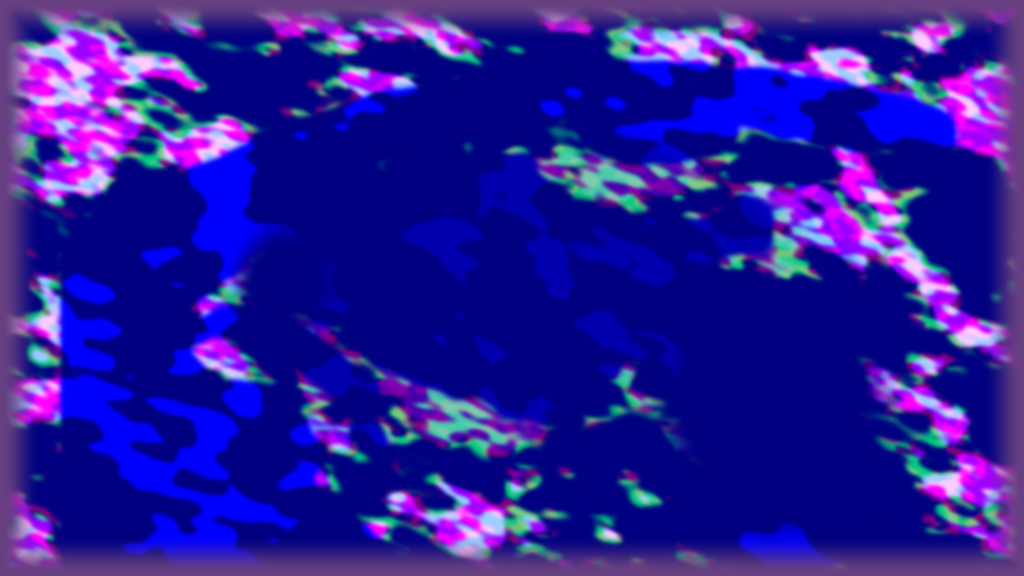
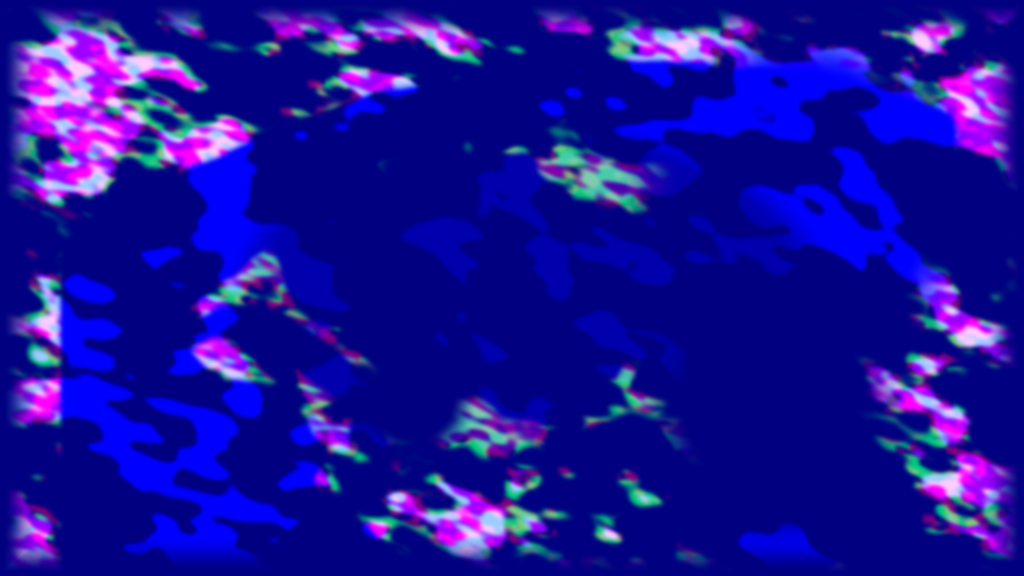
The far low as a comma, in open sea south of the ribs, well clear of the skull; the map's border and the sun's glare left clear

diff --git a/src/places/reveal/shared/weather.ts b/src/places/reveal/shared/weather.ts
@@ -16,13 +16,13 @@ export const FOG_KM = 0.7;
 /** Km a second: staged far faster than weather, so the held frame is seen to live. */
 export const LOW_DRIFT: [number, number] = [5.4, 1.5];
 /** The small low far off toward the planet's edge, px of the master: the wind winds round it as round the cyclone, a quarter as wide. */
-export const LOW2 = { x: 400, y: 1560 };
+export const LOW2 = { x: 1750, y: 2800 };
 // How many storms the sea holds: 1 the cyclone alone, 2 with the far low. (The same number is given to
 // assets-src/reveal/sky/make_weather.py as STORMS, which clears the sea round each.)
 export const STORMS = 2;
 // The other storms, each drawn by the cyclone's sheet (sky/index.ts): where (px of the master), the half width of its sheet (the
 // cyclone's is 1250), how it is turned, where in the photographs its arms are taken from, and how much thinner it stands.
-export const OTHER_STORMS = [{ at: LOW2, half: 900, turn: 0.32, arms: [0.37, 0.61], thinner: 0.0 }] as const;
+export const OTHER_STORMS = [{ at: LOW2, half: 460, turn: 0.32, arms: [0.37, 0.61], thinner: 0.0 }] as const;
 // How far the weather systems travel down the wind for each unit of the weather's clock, km.
 export const SYSTEMS_RUN = 0.9;
 /** The rectangle the map of the weather systems lies on (sky/weather.png, assets-src/reveal/sky/make_weather.py), as COVER_RECT is given. */
@@ -296,15 +296,13 @@ float lowDepth(vec2 at) {
   lowWeigh = vec3(1.0, 0.55, density);
   // (A patch, a front or a storm has a body under its cells: the photograph of wind-drawn cloud itself, thick and thin as it
   // is, cracked where the cells part. It is the start's large soft patch, with tops on it.)
-  // (At the heart of a low, where the wind's map is wound too tight to hold a cell, the deck's cells are read on the ground.)
-  float whole = 0.8;
-  if (wound * closed > 0.0) whole = clamp(0.35 + 0.5 * cloudAt(uMatPopcorn, (at - systemsRun() - uWx * vec2(6.0, 2.0)) / 170.0 + vec2(0.21, 0.63), gAt / 170.0 * lowSoft, 0.34), 0.0, 1.0);
+  // (At the heart of a low, where the wind's map is wound too tight to hold a cell, no patch stands: the storm's own sheet is there.)
   // (A body is white and whole at its tops and has an edge: the wind-drawn photograph says where it is thick, the larger lay of
   // cumulus breaks it into tops a few pixels wide from orbit with the sea dark between them, and the smaller lay lumps each top.)
   float form = pow(max(chain - 0.4, 0.0), 1.3);
   float tops = form * (0.42 + 0.58 * smoothstep(0.45, 1.25, puff)) * (0.55 + 0.45 * smoothstep(0.35, 0.9, cell));
   float stood = smoothstep(0.16, 0.34, tops) * (1.0 + 2.6 * tops);
-  float dense = max(knots * (0.25 + 1.5 * density) - 1.0, 0.0) + closed * cluster * mix(stood, 1.4 * whole, wound);
+  float dense = max(knots * (0.25 + 1.5 * density) - 1.0, 0.0) + closed * cluster * stood * (1.0 - wound);
   return 1.5 * dense + drawn;
 }
 

diff --git a/src/places/reveal/sky/index.ts b/src/places/reveal/sky/index.ts
@@ -192,7 +192,7 @@ void main() {
 // The cyclone: drawn from the Builder's photographs of wind-drawn streaks and of small cumulus, wound round its eye (the cyclone of round 19:
 // the photograph of a whole cyclone that stood here in round 25 read soft and flat at native size).
 // How another storm is drawn out (the cyclone's sheet, below): so much shorter all round, less so much on the side at this angle.
-const DRAWN_OUT = [1.3, 2.0, 0.9] as const;
+const DRAWN_OUT = [0.0, 0.0, 0.9] as const;
 // The part of its square sheet that another storm can reach, as [left, bottom, right, top] with the square -1 to 1: the sheet is
 // cut to it, so the clear sea round a storm that is drawn out to one side is not paid for.
 function reachOfOther(): [number, number, number, number] {
@@ -282,6 +282,11 @@ float storm(vec2 p, float turn, float lopsided, float shorter, float drawnIn) {
   // (Toward the eye a band is one body of cloud and its cells are the lumps of its top; outward it opens into rows of them.)
   // (Inside a band the cells still show: a band is a crowd of tops, not a smooth sheet.)
   float body = cover * mix(cells, 0.07 + 0.93 * cells, max(core, band * (1.0 - outer)));
+  // (Another storm is a comma: a small whole head, and of its arms only one, which leaves the head and winds out as its front,
+  // wide by the head and drawn thin to its end.)
+  float off = fract(phase + uOther.y + 0.5) - 0.5;
+  float tail = exp(-pow(off / mix(0.16, 0.07, smoothstep(0.2, 0.9, r)), 2.0));
+  body *= mix(1.0, max(tail, 1.0 - smoothstep(0.1, 0.2, r)), uOther.z);
   return body * mix(smoothstep(0.006, 0.036, r), 1.0, uOther.z) * (1.0 - smoothstep(0.8, 0.98, r * shorter)) * (1.0 - uOther.w);
 }
 void main() {
@@ -299,7 +304,8 @@ void main() {
     drawnIn = 0.011 * uWx;
     lopsided = smoothstep(0.0, 9.0, uWx);
     turn = ${LIVE_FROM.toFixed(6)} * (0.009 + 0.05 / (1.0 + 14.0 * r)) / 6.28318;
-    float wound = uWx * (0.05 + 0.035 / (1.0 + 14.0 * r));
+    // (Another storm turns far slower: its front does not sweep the sea round it in the hold.)
+    float wound = uWx * (0.05 + 0.035 / (1.0 + 14.0 * r)) * (1.0 - 0.8 * uOther.z);
     body = mat2(cos(wound), sin(wound), -sin(wound), cos(wound)) * p;
   }
   vec2 sunStep = normalize(uSunDir.xz);

diff --git a/assets-src/reveal/sky/make_weather.py b/assets-src/reveal/sky/make_weather.py
@@ -35,10 +35,10 @@ MASK_RECT = (-1800.0, -800.0, 7416.0, 4834.0)
 W, H = 1024, 576
 X0, Y0, WIDE, HIGH = -2600.0, -1400.0, 10800.0, 6075.0
 # The far low (LOW2 of weather.ts), the cyclone, the middle of the body, and the way the low wind blows (px of the master, y down).
-LOW2 = (400.0, 1560.0)
+LOW2 = (1750.0, 2800.0)
 CYCLONE = (5557.0, 3007.0)
 # (Half the width of the far low's sheet, and how far the systems travel through the hold: OTHER_STORMS and SYSTEMS_RUN of weather.ts.)
-LOW2_HALF = 900.0
+LOW2_HALF = 460.0
 TRAVEL = 95.0
 # How many storms the sea holds: 1 the cyclone alone, 2 with the far low and its front, 3 with the small one to the south-west.
 STORMS = int(os.environ.get('STORMS', '3'))
@@ -86,7 +86,7 @@ def weather():
     # The far low is a storm drawn by its own sheet (OTHER_STORMS of weather.ts), front and all: the sea stands clear under and
     # round it, as round the cyclone, so nothing of this map is on a storm's disc.
     if STORMS >= 2:
-        clear = smooth(0.35 * LOW2_HALF, 0.7 * LOW2_HALF, np.hypot(mx - LOW2[0], my - LOW2[1]))
+        clear = smooth(0.9 * LOW2_HALF, 1.5 * LOW2_HALF, np.hypot(mx - LOW2[0], my - LOW2[1]))
         red, green = red * clear, green * clear
         kind = 0.5 + (kind - 0.5) * clear
 
@@ -110,6 +110,10 @@ def weather():
     off_land = 1.0 - smooth(0.03, 0.3, ndimage.gaussian_filter(under, 75.0 / px))
     red, green = red * off_land, green * off_land
 
+    # None in the glare of the sun's image either (about px 5875, 703): cloud there is a grey smudge on the light.
+    glare = smooth(1300.0, 2000.0, np.hypot(mx - 5875.0, my - 703.0))
+    red, green = red * glare, green * glare
+
     # Nothing of this map stands over the cyclone's disc, nor crowds it: clear water round it.
     away = np.hypot(mx - CYCLONE[0], my - CYCLONE[1])
     keep = smooth(850.0, 1450.0, away)
@@ -121,7 +125,7 @@ def weather():
     # (Past its border the map is read at its border: there it is one even thin field of cumulus, so nothing is drawn out in bars.)
     inside = np.minimum.reduce([xs, W - 1.0 - xs, ys, H - 1.0 - ys])
     rim = smooth(2.0, 40.0, inside)[..., None]
-    out = np.array([0.4, 0.25, 0.5], np.float32) * (1.0 - rim) + out * rim
+    out = np.array([0.0, 0.0, 0.5], np.float32) * (1.0 - rim) + out * rim
     Image.fromarray((np.clip(out, 0.0, 1.0) * 255.0 + 0.5).astype(np.uint8), 'RGB').save(os.path.join(PUB, 'weather.png'), optimize=True)
     print('weather.png', os.path.getsize(os.path.join(PUB, 'weather.png')))
 

diff --git a/assets-src/reveal/sky/RECIPE.md b/assets-src/reveal/sky/RECIPE.md
@@ -39,9 +39,9 @@ y -820 to 3961.25). Where the weather stands:
 ## `public/assets/reveal/sky/weather.png`
 
 Made by: `assets-src/reveal/sky/make_weather.py` (Python 3 with numpy, scipy and Pillow), committed here
-From: seeded noise and the place of the far low; the body's outline from `public/assets/reveal/land/relief-a.png` (blue over 0.28, read only) and the ocean builder's mask of other land and ice, `assets-src/reveal/land/ocean/ocean-mask.png`, read and never copied, as it stands at commit 6aa0419 of the unit branch (the same mask sets the red of `cover.png`)
-Prompt or command: `python3 assets-src/reveal/sky/make_weather.py [mask]`, from the root of the repo, after `make_cover.py` (the mask is the repo's own unless one is named; what is committed was made with the repo's own, as at 6aa0419); `STORMS=1` or `2` before it sets how many storms the sea holds (2 is what is committed); no model and no prompt; the only noise is of fixed seeds
-Takes: 10 made (an even field of small cumulus; clusters with lanes; the comma of the far low with its dry slot and open cells; decks kept away from the body; then, after the lead's word that small marks read as an even speckle at 960 x 540, large patches with clear sea between; fewer of them; a third small storm; its arms left whole; the banks of the far coast thinner; then, after the ruling that only a crisp storm reads as weather, the painted front and the third storm taken out, the far low moved to open sea and the map cleared over the body's outline and the other land); the tenth is kept
+From: seeded noise and the place of the far low; the body's outline from `public/assets/reveal/land/relief-a.png` (blue over 0.28, read only) and the ocean builder's mask of other land and ice, `assets-src/reveal/land/ocean/ocean-mask.png`, read and never copied, as it stands at commit d3c534b of the unit branch (the same mask sets the red of `cover.png`)
+Prompt or command: `python3 assets-src/reveal/sky/make_weather.py [mask]`, from the root of the repo, after `make_cover.py` (the mask is the repo's own unless one is named; what is committed was made with the repo's own, as at d3c534b); `STORMS=1` or `2` before it sets how many storms the sea holds (2 is what is committed); no model and no prompt; the only noise is of fixed seeds
+Takes: 11 made (an even field of small cumulus; clusters with lanes; the comma of the far low with its dry slot and open cells; decks kept away from the body; then, after the lead's word that small marks read as an even speckle at 960 x 540, large patches with clear sea between; fewer of them; a third small storm; its arms left whole; the banks of the far coast thinner; then, after the ruling that only a crisp storm reads as weather, the painted front and the third storm taken out, the far low moved to open sea and the map cleared over the body's outline and the other land; then the far low moved again, to open sea south of the ribs, the map's border left clear and the sun's glare cleared); the eleventh is kept
 Why this one: at 960 x 540 the sea reads as large white patches and two storms with clear water between, and nothing of the map is over the body's outline or the other land
 Date: 2026-11-28
 
@@ -54,8 +54,8 @@ Used by: `src/places/reveal/shared/weather.ts` (`lowDepth`), read by the part `r
 - blue: the kind: 0.5 cumulus in chains, 1 a patch with a body (closed cells).
 
 The systems: large patches over the open sea, none over the body's outline nor over the other land (clear wherever land will be
-under the map as it travels, 95 px at the most); clear water round the far low (`LOW2`, px 400, 1560), which is drawn by its own
-sheet (`OTHER_STORMS` of `shared/weather.ts`, the cyclone's fragment in `sky/index.ts`); clear water 850 to 1450 px round the cyclone.
+under the map as it travels, 95 px at the most); clear water round the far low (`LOW2`, px 1750, 2800), which is drawn by its own
+sheet (`OTHER_STORMS` of `shared/weather.ts`, the cyclone's fragment in `sky/index.ts`); clear water 850 to 1450 px round the cyclone; clear sea at the map's border and in the sun's glare (1300 to 2000 px round px 5875, 703).
 
 The same script sets the red of `cover.png` (above); its green and blue are unchanged to the last bit.
 

diff --git a/assets-src/reveal/ROWS-reveal_weather_builder_n30.md b/assets-src/reveal/ROWS-reveal_weather_builder_n30.md
@@ -2,5 +2,5 @@
 
 | file | what | tool or model | prompt | take | date |
 | --- | --- | --- | --- | --- | --- |
-| public/assets/reveal/sky/weather.png | The weather systems of the open sea on the rectangle WEATHER_RECT (large patches, clear round the two storms, over the body's outline and over the other land): red how much low cloud, green how much veil, blue the kind (cumulus in chains, a patch with a body). 1024 x 576, 0.3 MB. | assets-src/reveal/sky/make_weather.py (Python 3, numpy, scipy, Pillow), seeded noise, the body's outline from public/assets/reveal/land/relief-a.png and the ocean builder's mask (both read, not copied) | none: computed, no model | 10 | 2026-11-28 |
-| public/assets/reveal/sky/cover.png | The red channel made again: the cloud that other land and the ice hold (deck over the ice edge, banks off the windward coast, lee streets and the wakes of the islands, none over the land itself). Green and blue unchanged to the last bit. 2048 x 1152, 0.8 MB. | assets-src/reveal/sky/make_weather.py, from the ocean builder's mask assets-src/reveal/land/ocean/ocean-mask.png as at 6aa0419 (read, not copied) | none: computed, no model | 10 | 2026-11-28 |
+| public/assets/reveal/sky/weather.png | The weather systems of the open sea on the rectangle WEATHER_RECT (large patches, clear round the two storms, over the body's outline and over the other land): red how much low cloud, green how much veil, blue the kind (cumulus in chains, a patch with a body). 1024 x 576, 0.3 MB. | assets-src/reveal/sky/make_weather.py (Python 3, numpy, scipy, Pillow), seeded noise, the body's outline from public/assets/reveal/land/relief-a.png and the ocean builder's mask (both read, not copied) | none: computed, no model | 11 | 2026-11-28 |
+| public/assets/reveal/sky/cover.png | The red channel made again: the cloud that other land and the ice hold (deck over the ice edge, banks off the windward coast, lee streets and the wakes of the islands, none over the land itself). Green and blue unchanged to the last bit. 2048 x 1152, 0.8 MB. | assets-src/reveal/sky/make_weather.py, from the ocean builder's mask assets-src/reveal/land/ocean/ocean-mask.png as at d3c534b (read, not copied) | none: computed, no model | 11 | 2026-11-28 |
